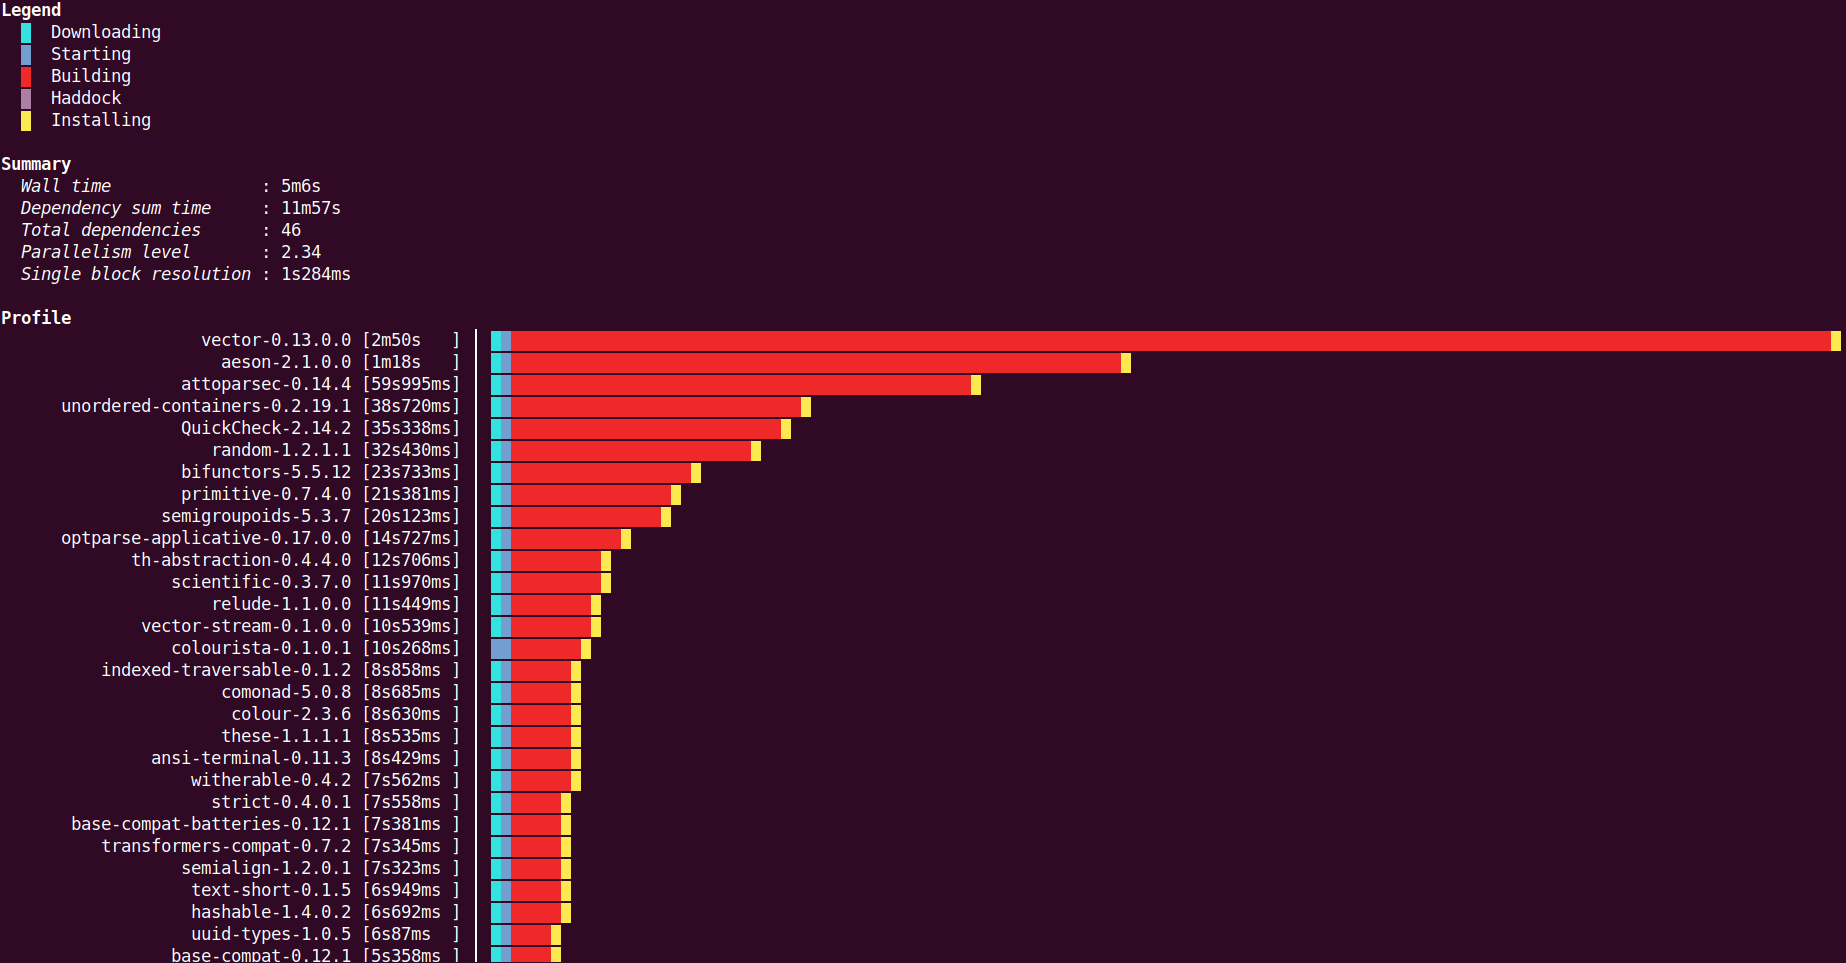
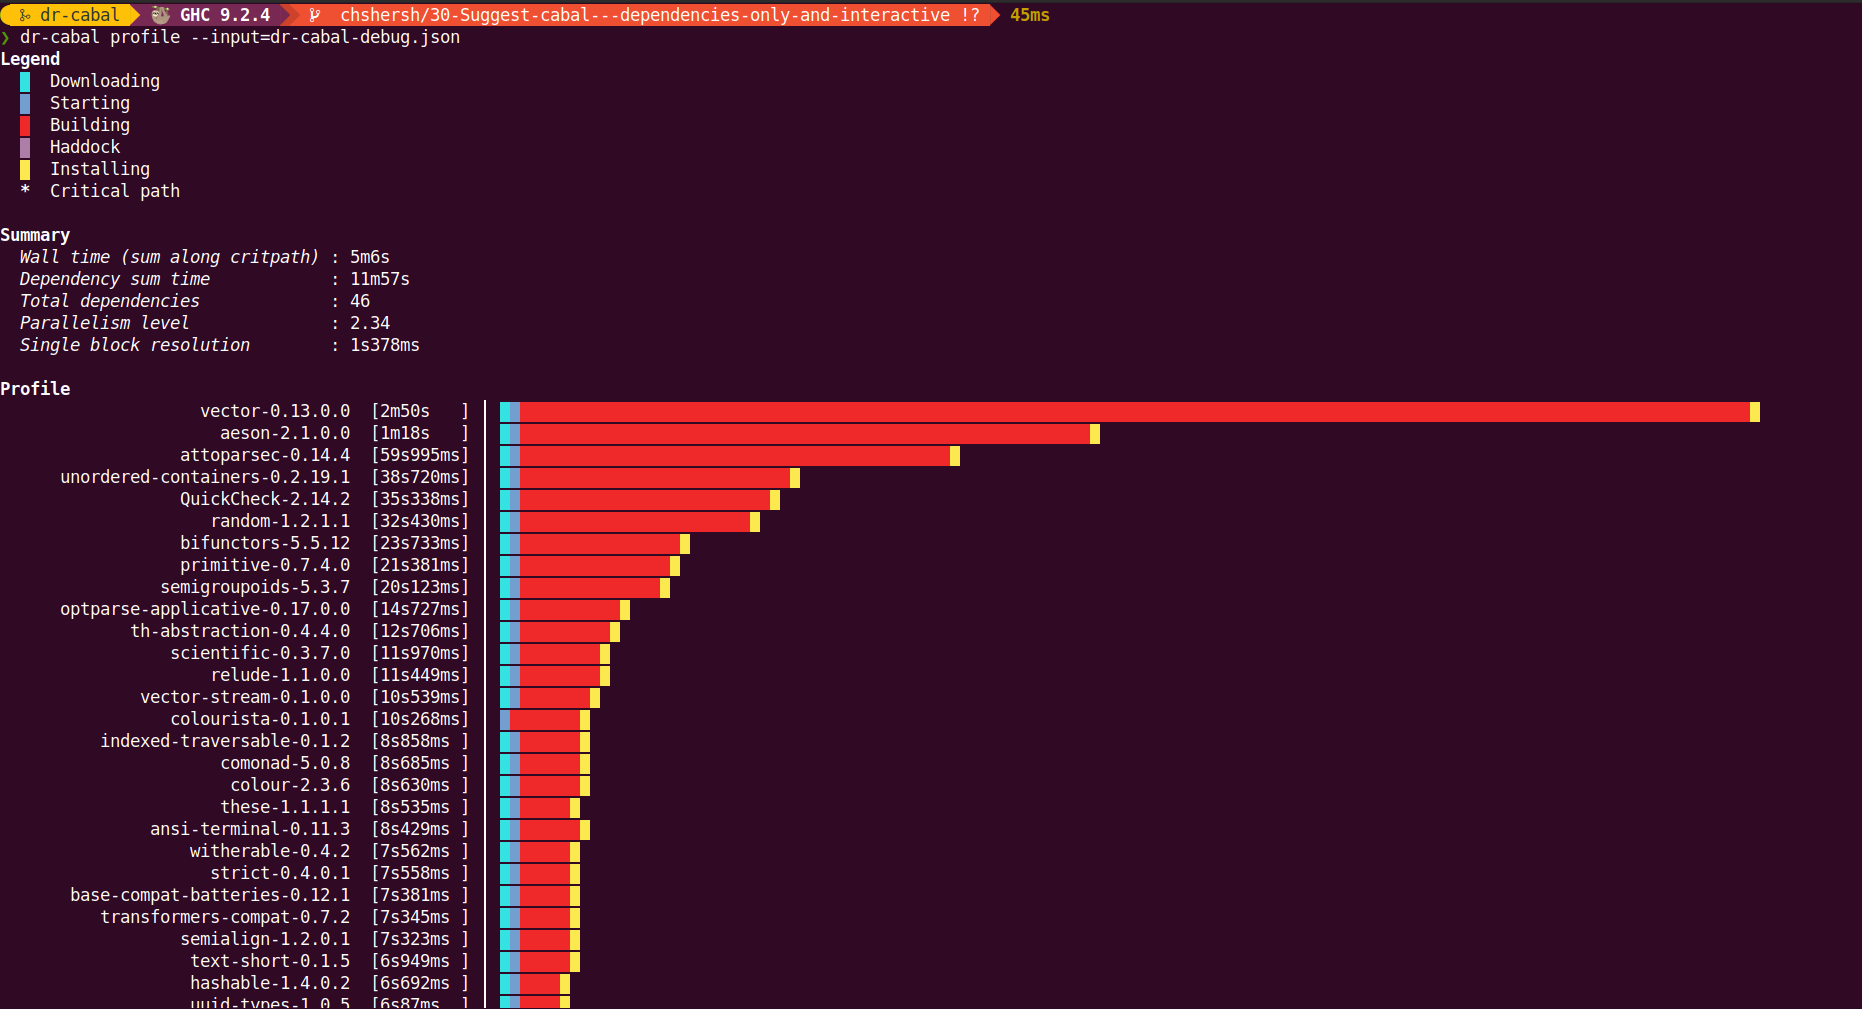
[#30] Suggest cabal --dependencies-only and interactive mode (#35)
Resolves #30

Changed region(s): [[0.0, 0.0, 1.0, 1.0], [0.0, 0.3738, 0.0309, 0.405]]

diff --git a/README.md b/README.md
@@ -6,7 +6,7 @@
 
 `dr-cabal` is a CLI tool for profiling Haskell dependencies build times.
 
-![dr-cabal example](https://raw.githubusercontent.com/chshersh/dr-cabal/main/images/dr-cabal-example.png)
+![dr-cabal demo](https://raw.githubusercontent.com/chshersh/dr-cabal/main/images/dr-cabal-demo.gif)
 
 > ℹ **DISCLAIMER:** This project is developed and maintained in
 > free time by volunteers. The development may continue for decades or
@@ -16,8 +16,8 @@
 
 ## Install
 
-`dr-cabal` is a Haskell CLI tool and can be installed either from
-Hackage or from this repository.
+`dr-cabal` is a CLI tool written in Haskell and can be installed
+either from Hackage or from this repository.
 
 ### Prerequisites
 
@@ -41,13 +41,12 @@ follow these steps:
 	```
 
 2. Build `dr-cabal` from Hackage and copy the resulting executable
-   into the desired location:
+   into the desired location (e.g. `$HOME/.local/bin`):
 
     ```shell
     cabal install dr-cabal \
         --install-method=copy \
         --overwrite-policy=always \
-        --with-compiler=ghc-9.0.2 \
         --installdir=$HOME/.local/bin
 	```
 
@@ -81,53 +80,59 @@ follow these steps:
 > ℹ **NOTE:** Make sure the `~/.local/bin` directory or the
 > directory of your choice is listed in `$PATH`.
 
-## How to use?
+## Quick start guide
 
-`dr-cabal` usages comprises two steps:
+Run the following command to view interactive profiling report:
 
-1. 👀 Watching `cabal build` output and recording data into a JSON file.
-2. 🌈 Producing pretty profiling results.
+```shell
+cabal --store-dir=$(mktemp -d) build --dependencies-only all | dr-cabal profile
+```
 
-### Watch
+### Explanation
 
-> ⚠ **WARNING:** To get meaningful results, the `dr-cabal watch`
-> command needs to be run when none of the dependencies are build. If
-> you've already build you project, including dependencies, you can
-> purge global Cabal cache using the following command:
+This section explains the above command:
+
+1. `dr-cabal` watches the output of the `cabal build` command to
+   produce the profiling report. Step into the directory of the
+   Haskell project you want to profile and pipe the output of
+   `cabal build` to `dr-cabal profile`.
+2. Currently, `dr-cabal` can profile only dependencies. So you can
+   pass the `--dependencies-only` to avoid extra wait.
+3. `cabal` caches built dependencies. You can specify a custom
+   directory for storing build artifacts using the `--store-dir` flag
+   to build the dependencies anew.
+4. The `$(mktemp -d)` command generates a temporary directory so you
+   can run the build time profiler in an isolated location.
+
+> ⚠ **WARNING:** To get meaningful results, including downloading
+> of packages, the `dr-cabal watch` command needs to be run when
+> none of the dependencies are build (i.e. with cold cabal
+> cache). If you've already build you project, including
+> dependencies, you can purge global Cabal cache using the
+> following command:
 >
 > ```shell
 > rm -rf ~/.cabal
 > ```
->
-> A less invasive approach is to point Cabal to a fresh store folder,
-> but in this case you won't see the `Downloading` phase in the profiling
-> output:
->
-> ```shell
-> cabal --store-dir=$(mktemp -d) build all
-> ```
 
-Run the following command inside the project directory, for which you
-want to build the profile chart:
+## Usage
+
+> ℹ In this section, a more verbose `cabal-install` command from
+> "Quick start guide" is replaced with shorter `cabal build`.
+
+`dr-cabal` supports profiling of documentation as well, you only need
+to pass relevant flags to `cabal build`:
 
 ```shell
-cabal build all | dr-cabal watch --output=dr-cabal-debug.json
+cabal build --enable-documentation --haddock-all | dr-cabal profile
 ```
 
-This command watches the `cabal build` output and records all the
-relevant steps in the `dr-cabal-debug.json` file.
+To cache the profiling results in JSON (and avoid building the project
+again), use the `--output` flag:
 
-If everything is good, you should see output similar to the below one:
-
-![dr-cabal watch example](https://raw.githubusercontent.com/chshersh/dr-cabal/main/images/dr-cabal-watch.gif)
-
-> It's also possible to see the time spent on Haddock. You can run with:
->
-> ```shell
-> cabal build all --enable-documentation --haddock-all | dr-cabal watch --output=dr-cabal-debug.json
-> ```
-
-### Profile
+```shell
+cabal build | dr-cabal profile --output=my_file.json
+```
 
 Once you successfully produced a JSON file with all the recorded
 steps, run the following command to pretty-print the profiling output:
@@ -135,7 +140,7 @@ steps, run the following command to pretty-print the profiling output:
 > ⚠ **WARNING:** For better results, make your terminal full-screen.
 
 ```shell
-dr-cabal profile --input=dr-cabal-debug.json
+dr-cabal profile --input=my_file.json
 ```
 
 You'll see the output like on the image below:

diff --git a/CHANGELOG.md b/CHANGELOG.md
@@ -1,22 +1,80 @@
 # Changelog
 
-`dr-cabal` uses [PVP Versioning][1].
-The changelog is available [on GitHub][2].
+All notable changes to this project will be documented in this file.
 
-## 0.1.0.0 — August 6, 2022 📚
-
-* [#10](https://github.com/chshersh/dr-cabal/issues/10):
-  Support `Haddock` phase in `cabal build` output
-  (by [@diasbruno](https://github.com/diasbruno))
-* [#14](https://github.com/chshersh/dr-cabal/issues/14):
-  Enrich _Summary_ with more info: parallelism level, total dependencies summary
-  (by [@bradrn](https://github.com/bradrn))
-* Module structure refactoring to add new profiling modes easier
-  (by [@diasbruno](https://github.com/diasbruno))
-
-## 0.0.0.0 — July 31, 2022 🌇
-
-* Initially created.
+The format is based on [Keep a Changelog](https://keepachangelog.com/en/1.0.0/),
+and this project adheres to [PVP Versioning][1]. The changelog is also
+available [on GitHub][2].
 
 [1]: https://pvp.haskell.org
 [2]: https://github.com/chshersh/dr-cabal/releases
+
+## [Unreleased]
+
+## [0.2.0.0] — 2022-11-20 ✨
+
+### Added
+
+* [#28](https://github.com/chshersh/dr-cabal/issues/28):
+  Implement interactive mode
+  (by [@Bodigrim][Bodigrim])
+* [#24](https://github.com/chshersh/dr-cabal/issues/24):
+  Compute the critical path
+  (by [@Bodigrim][Bodigrim])
+* [#26](https://github.com/chshersh/dr-cabal/issues/26),
+  [#30](https://github.com/chshersh/dr-cabal/issues/30):
+  Multiple documentation improvements: suggest `--store-dir`,
+  `--dependencies-only`, `mktemp`, interactive mode by default
+  (by [@Bodigrim][Bodigrim], [@chshersh][chshersh])
+
+### Removed
+
+* Remove `watch` command. Now `dr-cabal profile` can watch and build
+  the profiling output at the same time.
+
+### Changed
+
+* [#31](https://github.com/chshersh/dr-cabal/issues/31):
+  Refactor CLI significantly:
+
+    + Remove `watch` command
+    + Use interactive mode by default (via alternate terminal screen)
+
+  (by [@chshersh][chshersh])
+
+## [0.1.0.0] — 2022-08-06 📚
+
+### Added
+
+* [#10](https://github.com/chshersh/dr-cabal/issues/10):
+  Support `Haddock` phase in `cabal build` output
+  (by [@diasbruno][diasbruno])
+* [#14](https://github.com/chshersh/dr-cabal/issues/14):
+  Enrich _Summary_ with more info: parallelism level, total dependencies summary
+  (by [@bradrn][bradrn])
+* Module structure refactoring to add new profiling modes easier
+  (by [@diasbruno][diasbruno])
+
+### Fixed
+
+* Fixed type in the profile example
+  (by [@tonyday567][tonyday567])
+
+## [0.0.0.0] — 2022-07-31 🌇
+
+Initial release prepared by [@chshersh][chshersh].
+
+<!-- Contributors -->
+
+[Bodigrim]: https://github.com/Bodigrim
+[bradrn]: https://github.com/bradrn
+[chshersh]: https://github.com/chshersh
+[diasbruno]: https://github.com/diasbruno
+[tonyday567]: https://github.com/tonyday567
+
+<!-- Versions -->
+
+[Unreleased]: https://github.com/chshersh/dr-cabal/compare/v0.2.0.0...HEAD
+[0.2.0.0]: https://github.com/chshersh/dr-cabal/compare/v0.1.0.0...v0.2.0.0
+[0.1.0.0]: https://github.com/chshersh/dr-cabal/compare/v0.0.0.0...v0.1.0.0
+[0.0.0.0]: https://github.com/chshersh/dr-cabal/releases/tag/v0.0.0.0
